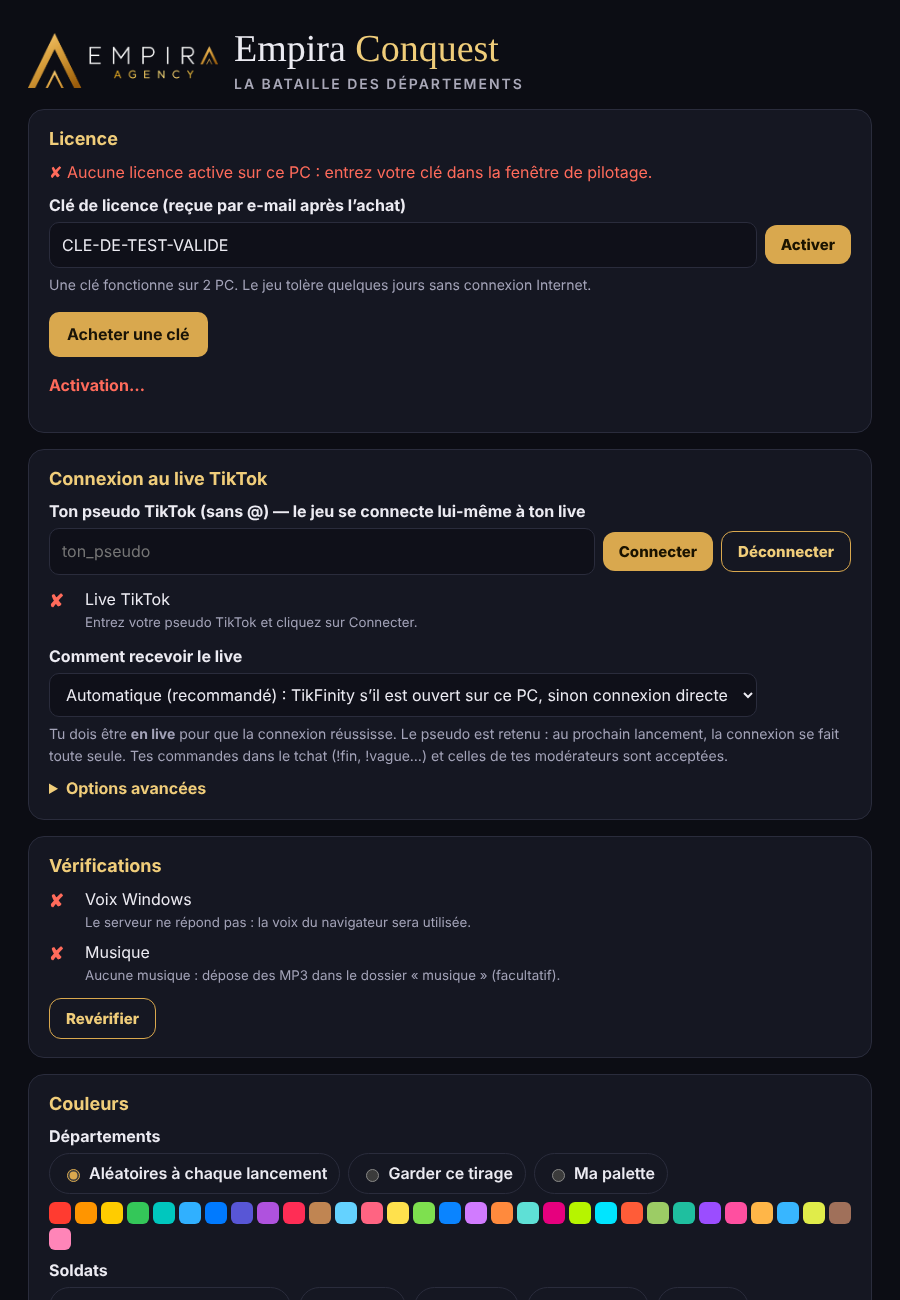
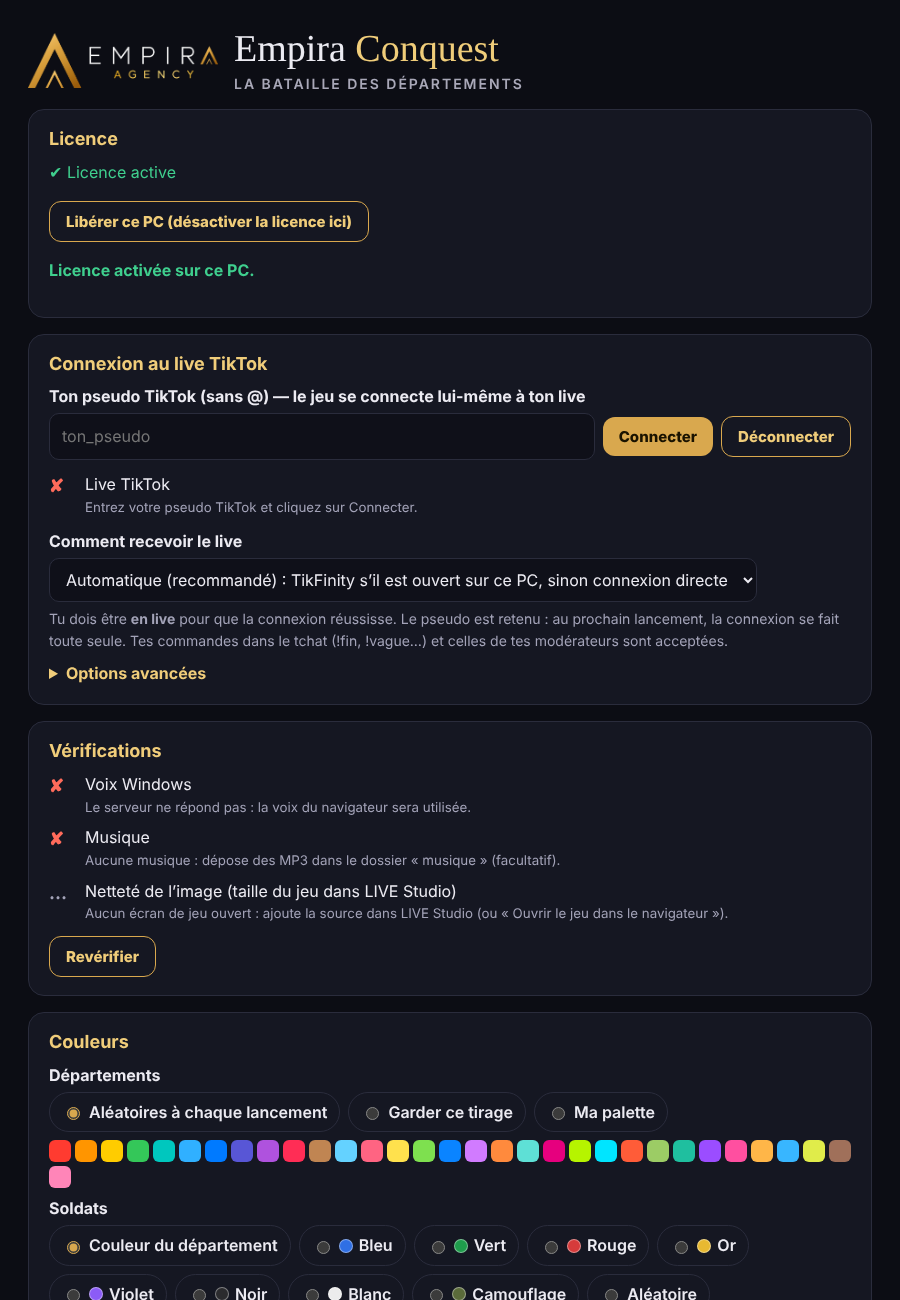
Diagnostic de netteté : taille réelle du jeu dans LIVE Studio, avertissement à l'écran, contournement OBS
Claude-Session: https://claude.ai/code/session_01NCuRgus5nC27Z2ujoNiFEU

diff --git a/produit/GUIDE.html b/produit/GUIDE.html
@@ -9,7 +9,7 @@
 body { margin: 0; background: #0c0d14; color: #ecebf2; font: 17px/1.6 'Segoe UI', system-ui, sans-serif; }
 main { max-width: 820px; margin: 0 auto; padding: 32px 20px 64px; }
 h1 { font: 400 36px/1.15 Georgia, serif; margin: 0 0 6px; } h1 em { font-style: normal; color: #f0cd7a; }
-h2 { color: #f0cd7a; font-size: 21px; margin-top: 32px; }
+h2 { color: #f0cd7a; font-size: 21px; margin-top: 32px; } h3 { font-size: 18px; margin: 20px 0 6px; }
 code, kbd { background: #1b1d2b; border: 1px solid #2a2c3c; border-radius: 6px; padding: 1px 6px; font-family: Consolas, monospace; font-size: 15px; }
 ol li, ul li { margin: 6px 0; }
 .note { background: #151722; border-left: 4px solid #d9a84e; padding: 12px 16px; border-radius: 10px; }
@@ -51,7 +51,20 @@ table { border-collapse: collapse; width: 100%; } td { border-top: 1px solid #2a
 <p class="note">Si tu changes de couleurs ou de voix, recopie l’adresse depuis la page de démarrage : les réglages sont dans l’adresse, car LIVE Studio ne partage pas la mémoire du navigateur.</p>
 
 <h2>Image nette sur TikTok</h2>
-<p>Le jeu se dessine automatiquement à la résolution réelle de ton écran (même avec la mise à l’échelle de Windows à 125 % ou 150 %). Ce qui reste flou vient presque toujours des réglages de diffusion :</p>
+<p>Le jeu se dessine automatiquement à la taille à laquelle il est affiché. Dans la fenêtre de pilotage, la ligne <b>« Netteté de l’image »</b> indique la taille réelle à laquelle LIVE Studio affiche le jeu : il faut <b>1080 × 1920</b>. Si elle est plus petite, LIVE Studio étire une petite image et tout devient flou ; le jeu l’affiche aussi en rouge en haut de l’écran pendant 25 secondes.</p>
+<h3>Si c’est déjà flou dans LIVE Studio : passer par OBS (gratuit)</h3>
+<p>La source « Lien » de LIVE Studio affiche parfois les pages web en petit avant de les étirer. La solution utilisée par la plupart des jeux interactifs :</p>
+<ol>
+  <li>Installe <b>OBS Studio</b> (gratuit, obsproject.com).</li>
+  <li>OBS → Paramètres → Vidéo : résolution de base <b>1080 × 1920</b> et résolution de sortie <b>1080 × 1920</b>.</li>
+  <li>Ajoute une source <b>Navigateur</b> : colle l’adresse du jeu (bouton « Copier l’adresse » de la fenêtre de pilotage), largeur <b>1080</b>, hauteur <b>1920</b>. Laisse « Contrôler l’audio via OBS » décoché pour que le son passe par les haut-parleurs du PC.</li>
+  <li>Clique sur <b>Démarrer la caméra virtuelle</b> (en bas à droite d’OBS).</li>
+  <li>Dans LIVE Studio, ajoute une source <b>Caméra</b>, choisis <b>OBS Virtual Camera</b> et étire-la pour remplir tout l’écran (supprime l’ancienne source « Lien »).</li>
+  <li>Vérifie que LIVE Studio capte le son du PC (audio du bureau), pour la voix et la musique du jeu.</li>
+</ol>
+<p>La ligne « Netteté de l’image » doit alors afficher 1080 × 1920 — net.</p>
+<h3>Réglages de diffusion</h3>
+<p>Une fois l’image nette dans LIVE Studio, ce qui reste flou sur les téléphones vient de la diffusion :</p>
 <ul>
   <li>Source <b>Lien</b> réglée sur <b>1080 × 1920</b>, sans l’agrandir à la souris dans la scène (une source plus petite étirée devient floue).</li>
   <li>Dans les paramètres de LIVE Studio : résolution <b>1080p</b>, et le <b>débit (bitrate) le plus élevé</b> que ta connexion supporte (6 000 kbit/s ou plus si possible). Un débit trop bas est la première cause de flou sur TikTok.</li>

diff --git a/produit/src/main.js b/produit/src/main.js
@@ -69,9 +69,31 @@ async function demarrer() {
   const photos = new Photos();
   const rendu = new Rendu(document.getElementById('carte'), partie, theme, { photos });
   // netteté : le canevas suit la taille réelle de l'affichage et la mise à l'échelle de Windows
-  const ajuster = () => rendu.adapter(adapterEchelle() * (window.devicePixelRatio || 1));
+  const idEcran = Math.random().toString(36).slice(2, 12);
+  const alerteTaille = document.createElement('div');
+  alerteTaille.className = 'alerte-taille';
+  document.getElementById('interface').appendChild(alerteTaille);
+  let finAlerte = null;
+  const signaler = () => {
+    const dpr = window.devicePixelRatio || 1;
+    fetch('/ecran', { method: 'POST', body: JSON.stringify({ id: idEcran, largeur: window.innerWidth, hauteur: window.innerHeight, dpr, q: rendu.q, agent: navigator.userAgent }) }).catch(() => {});
+  };
+  const ajuster = () => {
+    const dpr = window.devicePixelRatio || 1;
+    rendu.adapter(adapterEchelle() * dpr);
+    signaler();
+    // la source est trop petite ou couchée : l'image sera étirée, donc floue ; on le dit clairement pendant 25 s
+    const l = Math.round(window.innerWidth * dpr);
+    const h = Math.round(window.innerHeight * dpr);
+    const petit = l < 1000 || h < 1700 || window.innerWidth > window.innerHeight;
+    alerteTaille.textContent = petit ? `Image floue : le jeu est affiché en ${l} × ${h} pixels. Règle la source sur 1080 × 1920 (voir la fenêtre de pilotage).` : '';
+    alerteTaille.classList.toggle('montre', petit);
+    clearTimeout(finAlerte);
+    if (petit) finAlerte = setTimeout(() => alerteTaille.classList.remove('montre'), 25000);
+  };
   ajuster();
   window.addEventListener('resize', ajuster);
+  setInterval(signaler, 15000);
   const suivreDpr = () => matchMedia(`(resolution: ${window.devicePixelRatio || 1}dppx)`).addEventListener('change', () => (ajuster(), suivreDpr()), { once: true });
   suivreDpr();
   const hud = new Interface(document.getElementById('interface'), partie, theme, photos);

diff --git a/produit/src/demarrer.js b/produit/src/demarrer.js
@@ -148,6 +148,27 @@ function remplirVoix() {
   majAdresse();
 }
 
+// netteté : taille à laquelle LIVE Studio (ou OBS, ou le navigateur) affiche réellement le jeu
+async function verifierAffichage() {
+  let liste = [];
+  try {
+    liste = await (await fetch('/ecrans', { cache: 'no-store' })).json();
+  } catch {
+    return;
+  }
+  if (!liste.length) return marquer('iAff', 'sAff', 'Aucun écran de jeu ouvert : ajoute la source dans LIVE Studio (ou « Ouvrir le jeu dans le navigateur »).', 'attente');
+  const textes = liste.map((e) => {
+    const l = Math.round(e.largeur * (e.dpr || 1));
+    const h = Math.round(e.hauteur * (e.dpr || 1));
+    const couche = e.largeur > e.hauteur;
+    const ok = l >= 1000 && h >= 1700 && !couche;
+    const conseil = couche ? 'la source est en paysage : règle-la en 1080 × 1920 (portrait)' : !ok ? 'trop petit, LIVE Studio l’étire → flou. Règle la source sur 1080 × 1920, ou passe par OBS (voir le guide)' : 'net';
+    return { ok, texte: `${l} × ${h} pixels — ${conseil}` };
+  });
+  const ok = textes.every((t) => t.ok);
+  marquer('iAff', 'sAff', textes.map((t) => t.texte).join(' · '), ok ? 'ok' : 'ko');
+}
+
 async function verifierMusique() {
   try {
     const l = await (await fetch('/musiques', { cache: 'no-store' })).json();
@@ -265,6 +286,8 @@ function init() {
   verifierLicence();
   verifierVoix();
   verifierMusique();
+  verifierAffichage();
+  setInterval(verifierAffichage, 3000);
 }
 
 init();

diff --git a/produit/src/page.html b/produit/src/page.html
@@ -81,6 +81,8 @@ body { font-family: var(--police); color: #f2efe8; -webkit-font-smoothing: antia
 .attente p { margin: 0; font: 700 20px var(--police); color: rgba(255, 255, 255, 0.75); }
 .etat { top: 186px; left: 30px; display: none; padding: 6px 12px; border-radius: 10px; background: rgba(130, 20, 20, 0.88); font: 700 16px var(--police); }
 .etat.montre { display: block; }
+.alerte-taille { top: 120px; left: 30px; right: 30px; display: none; padding: 10px 16px; border-radius: 12px; background: rgba(180, 30, 30, 0.92); font: 800 22px/1.25 var(--police); text-align: center; }
+.alerte-taille.montre { display: block; }
 .podium { top: 232px; left: 30px; right: 30px; bottom: 676px; display: none; flex-direction: column; align-items: center; gap: 6px; padding: 18px 26px; border-radius: 28px; background: rgba(8, 9, 15, 0.94); border: 3px solid var(--contour); }
 .podium.montre { display: flex; animation: entree 0.6s ease-out; }
 .podium h1 { margin: 0; font: 700 76px/1 Georgia, serif; color: #f6dc8f; letter-spacing: 0.04em; }

diff --git a/tests/produit-serveur.test.js b/tests/produit-serveur.test.js
@@ -224,3 +224,11 @@ test('serveur : voix, musiques, fichiers, sécurité', async () => {
   assert.equal(await brut('/etat', { 'Sec-Fetch-Site': 'cross-site' }), 403, 'un autre site ne peut pas piloter le serveur');
   assert.equal((await fetch(`${base}/licence`).then((r) => r.json())).ok, true, 'pas de licence en version de développement');
 });
+
+test('serveur : diagnostic de netteté — taille d’affichage signalée par les écrans de jeu', async () => {
+  assert.deepEqual(await fetch(`${base}/ecrans`).then((r) => r.json()), []);
+  assert.equal((await post('/ecran', { id: 'a', largeur: 540, hauteur: 960, dpr: 1, q: 0.5 })).ok, true);
+  assert.equal((await fetch(`${base}/ecran`, { method: 'POST', body: JSON.stringify({ id: 'b', largeur: 'x' }) })).status, 400);
+  const l = await fetch(`${base}/ecrans`).then((r) => r.json());
+  assert.deepEqual(l.map((e) => [e.largeur, e.hauteur, e.dpr]), [[540, 960, 1]]);
+});

diff --git a/produit/src/demarrer.html b/produit/src/demarrer.html
@@ -87,6 +87,7 @@ select { width: auto; }
     <div class="etats">
       <div class="etat"><b id="iVoix" class="attente">…</b><div><span id="tVoix">Voix Windows</span><small id="sVoix"></small></div></div>
       <div class="etat"><b id="iMus" class="attente">…</b><div><span id="tMus">Musique</span><small id="sMus"></small></div></div>
+      <div class="etat"><b id="iAff" class="attente">…</b><div><span id="tAff">Netteté de l’image (taille du jeu dans LIVE Studio)</span><small id="sAff">Ouvre le jeu dans LIVE Studio : sa taille réelle s’affichera ici.</small></div></div>
     </div>
     <p class="ligne" style="margin:12px 0 0"><button class="discret" id="reverifier" type="button">Revérifier</button></p>
   </section>

diff --git a/docs/09-version-vendue.md b/docs/09-version-vendue.md
@@ -106,6 +106,10 @@ Interprétations (le cahier des charges ne tranchait pas) :
   photos de profil en 720 px (avatarMedium) au lieu de la miniature de 100 px ; textes de la carte et petites
   légendes agrandis et contourés pour rester lisibles après la compression de TikTok. Le guide liste les réglages
   de LIVE Studio (source 1080 × 1920 non étirée, 1080p, débit élevé).
+- **Diagnostic de netteté** : chaque écran de jeu signale au serveur la taille à laquelle il est affiché (`POST /ecran`,
+  `GET /ecrans`) ; la fenêtre de pilotage l'affiche (« Netteté de l'image ») et le jeu avertit 25 s à l'écran si elle
+  est sous 1080 × 1920. Si la source « Lien » de LIVE Studio rend la page en petit (bug signalé par des éditeurs
+  tiers, non vérifié ici), le guide décrit le contournement par OBS (source Navigateur 1080 × 1920 + caméra virtuelle).
 - **Logo** : le logo fourni par Empira (fond rendu transparent) est intégré au jeu : version compacte sur la carte,
   version complète sur le podium, la fenêtre de pilotage, l'écran de licence et le guide ; icône d'onglet. Il n'est plus
   remplaçable par l'acheteur (le dossier `images/` a disparu).
